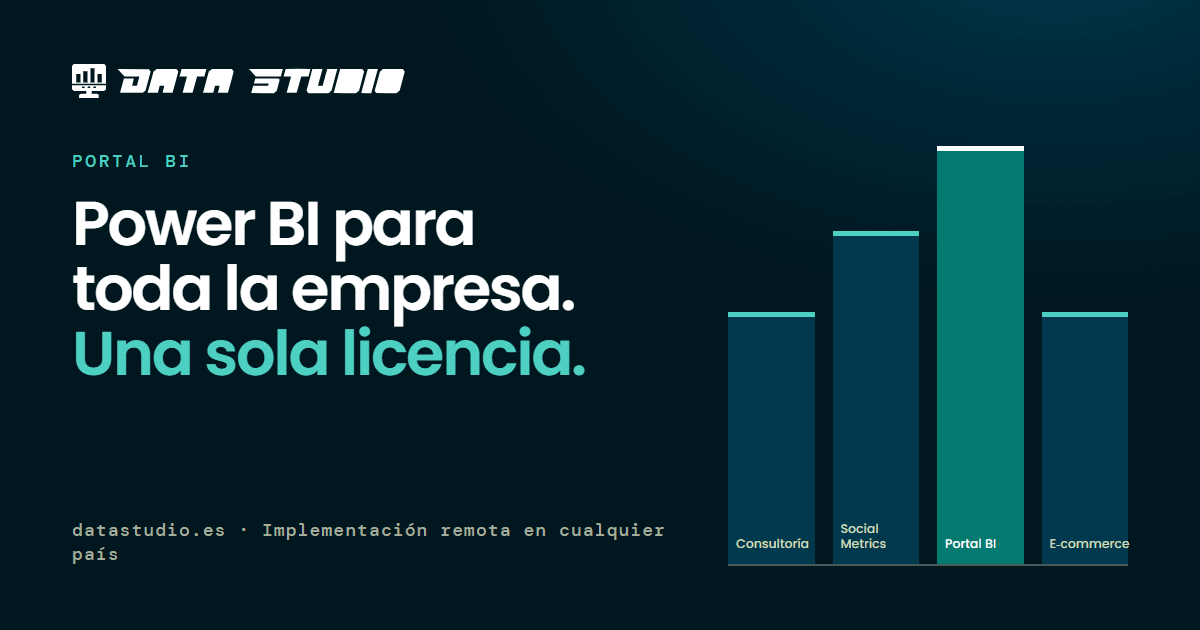
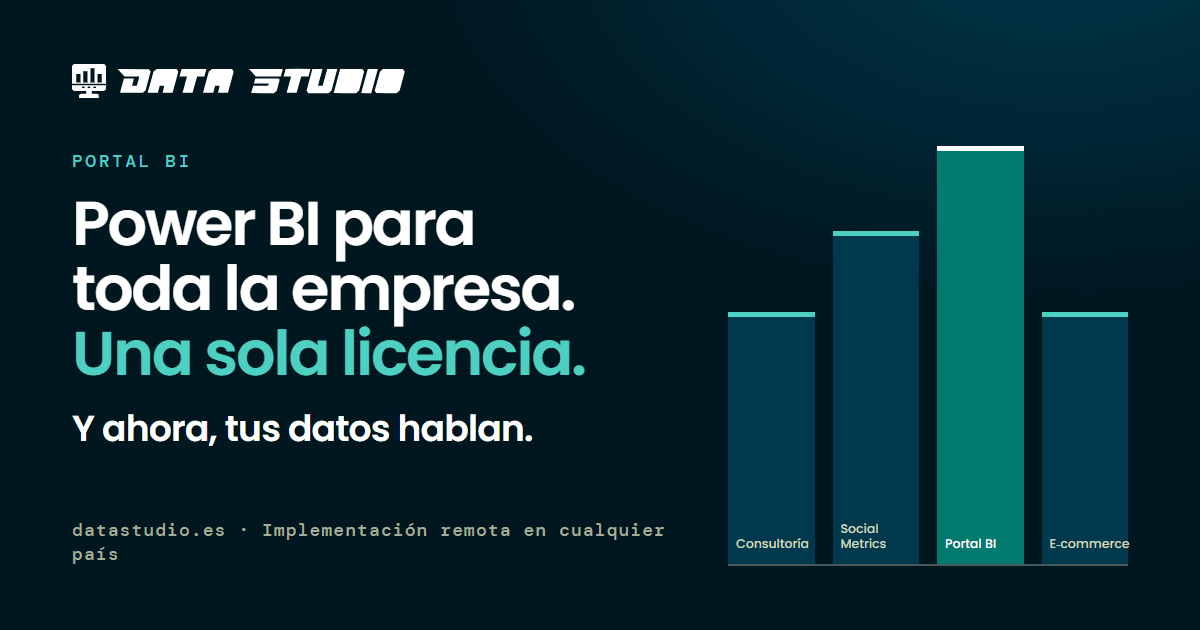
Portal BI: el lema «Y ahora, tus datos hablan.»
El plus del servicio, elegido con criterio de neuromarketing (ADR-018): «ahora»
es novedad, el presente dice que ya pasó, los datos que hablan se vuelven
alguien, «tus» los hace propios, y la «Y» lo pone después del ahorro, como
un «y además». Va con la acción («Conversa con tus datos») y la prueba
(«Pregúntale lo que el tablero no muestra»).

- Portada: el lema debajo del titular, que sigue siendo el gancho del ahorro.
  El titular baja a 56 px de tope y los botones de compra quedan más arriba
  que antes (829 px contra 875 en 1440 × 900). La sección del chat pasa a
  «Conversa con tus datos. Y mira de dónde sale cada número.».
- Recorridos: el paso del chat de tu equipo y el de la IA del administrador.
- Anuncio: la toma 6 lo presenta y el cierre lo firma.
- Imagen para compartir y descripción con el lema.
- npm run recursos estaba roto desde el 11/10 (buscaba el logo en
  Logo.astro); ahora lo lee de src/data/logo.ts.
- Banco del anuncio: el lema se ve en el cuadro quieto (saboteado). La
  portada del recorrido se eligió entre variantes medidas para que no salte
  al cargar la fuente (CLS). QA, anuncio y recorridos sin problemas.

Changed region(s): [[0.0617, 0.6635, 0.4625, 0.7238]]

diff --git a/src/components/anuncio/anuncio.css b/src/components/anuncio/anuncio.css
@@ -2534,6 +2534,15 @@
   max-width: calc(900 * var(--u));
 }
 
+/* El lema (ADR-018), pegado al titular. En blanco: la salvia de los subtítulos no se lee sobre
+   el verde (3,55:1, ver marca.md) */
+.an-s9-lema {
+  margin-top: calc(-20 * var(--u));
+  font-weight: 600;
+  color: #fff;
+  animation: an-entra 0.45s var(--sale) calc(var(--a) + 1.3s) both;
+}
+
 .an-fichas {
   display: flex;
   flex-wrap: wrap;

diff --git a/docs/contenido.md b/docs/contenido.md
@@ -35,7 +35,8 @@ Empresa de soluciones de datos con base en Santa Cruz de la Sierra, Bolivia, que
 | Solo lectura, cuentas autorizadas, sin redistribución, revocable | Política de Privacidad y Condiciones del Servicio |
 | Anuncio del Portal BI: "1.000 personas × US$ 14 = US$ 14.000 al mes" | Cuenta sobre el precio de lista de Power BI Pro (`PRECIO_LICENCIA_USD`) con 1.000 personas como ejemplo; tachado en rojo y dicho como "sin el portal pagarías" |
 | Anuncio: "El código es tuyo", "Excel: tú decides quién descarga", "Lo instalas tú o lo instalamos", "Chat con IA", "En el celular", "Con tu marca" | Lo que el producto hace hoy (dos caminos de compra, opción "Ocultar Exportar datos" por asignación, chat al costado, marca blanca, móvil) |
-| Anuncio, toma 6: «La IA, al lado de tu tablero», «Un clic y conversas con tus datos», «Pregúntale lo que el tablero no muestra»; los pasos «Leyendo la estructura del modelo», «Redactando la consulta», «Consultando Power BI» y las consultas «Consulta n de 3» | Lo que hace el chat hoy: se abre al costado del tablero y consulta el modelo, no lo que dibuja el reporte. Los rótulos son los del portal, en `views/modules/chat.ejs` (pasos y «Consulta n de total») |
+| El lema «Y ahora, tus datos hablan.», «Conversa con tus datos» y «Pregúntale lo que el tablero no muestra» (portada, recorridos, anuncio, imagen para compartir; ADR-018) | El chat con IA del portal: se abre al costado del tablero, se le pregunta en español y responde consultando el modelo de Power BI, con la consulta a la vista. Si el dato no está en el modelo, lo dice |
+| Anuncio, toma 6: «Y ahora, tus datos hablan.», «A un clic, al lado de tu tablero», «Pregúntale lo que el tablero no muestra»; los pasos «Leyendo la estructura del modelo», «Redactando la consulta», «Consultando Power BI» y las consultas «Consulta n de 3» | Lo que hace el chat hoy: se abre al costado del tablero y consulta el modelo, no lo que dibuja el reporte. Los rótulos son los del portal, en `views/modules/chat.ejs` (pasos y «Consulta n de total») |
 | Datos de la toma 6: crecimiento de siete sucursales contra 2025 (de +18,4 % a −7,4 %, promedio +7,9 %); Aeropuerto, ticket promedio US$ 94 → 118 (+26 %; es +25,5 %, y la ficha decía +25 hasta que se hizo la cuenta) y tickets 7.388 → 6.969 (−6 %) | **Ficticios** y cuadrados entre sí y con el reporte: 7.388 × 94 y 6.969 × 118 dan +18,4 %, el crecimiento de Aeropuerto en el gráfico, y 822.300, sus ventas en el reporte. Las siete suman los US$ 5.216.100 del reporte (Parque Industrial, 177.000, es la que el visual de barras deja afuera), su crecimiento ponderado es el +7,9 % del indicador, y el ticket da los 108. Rotulados "Datos de ejemplo" (ADR-013) |
 | Datos de las maquetas (tienda de cafetería, ranking de publicaciones, ventas de marzo, chat del portal, recorrido animado: usuaria «mariana.s», sucursales y ventas de septiembre) | **Ficticios**, rotulados "Datos de ejemplo" en cada maqueta (ADR-013) |
 | Recorrido del administrador: alta con usuario o correo, sin cuenta de Microsoft ni licencia; el constructor que recorre tabla, columna y valor y arma el filtro; el enlace que el panel revisa antes de guardar; las opciones del tablero (paneles, páginas que no ve, pantalla completa, imprimir, sin «Exportar datos»); el chat por tablero, al costado o en otra pestaña, con su aviso; la marca con vista previa y «menos de un minuto»; los registros de acceso | Lo que hace el panel hoy, leído de sus vistas: `credenciales.ejs`, `powerbi.ejs` (constructor de filtros), `licencia.ejs` + `_opciones-tablero.ejs`, `configuracion.ejs` («Se aplicarán en menos de 60 segundos») y `registros.ejs` |

diff --git a/docs/changelog.md b/docs/changelog.md
@@ -1,5 +1,29 @@
 # Bitácora de cambios
 
+## 14/10/2026 · El lema del Portal BI: «Y ahora, tus datos hablan.»
+
+- **Pedido del dueño**: que la portada, los recorridos, el anuncio y la demo tomen algo de «Haz que tus datos hablen», «Ahora tus datos hablan» o «Conversa con tus datos», elegido con criterio de neuromarketing, para que sea el plus del servicio.
+- **La frase elegida es «Y ahora, tus datos hablan.»** El porqué está en ADR-018. Forma un sistema de tres frases, una por función:
+  - el **lema** es «Y ahora, tus datos hablan.»;
+  - la **acción** es «Conversa con tus datos»;
+  - la **prueba** es «Pregúntale lo que el tablero no muestra».
+- **Portada de `/portal-bi/`**:
+  - El titular sigue siendo el gancho del ahorro («Nunca más una licencia por persona»). El lema va debajo, como segunda voz, y la bajada explica las dos promesas.
+  - El titular bajó de 64 a 56 px de tope. Con eso pasa de 5 a 4 renglones en escritorio, y los botones de compra terminan más arriba que antes aunque se sumó una línea: en 1440 × 900 y en 1280 × 800, de 875 a 829 px. En el teléfono siguen a la vista (822 px de 844).
+  - La sección del chat pasó de «Pregunta en español. Mira la consulta.» a «Conversa con tus datos. Y mira de dónde sale cada número.». El «en español» se mudó a la entrada.
+  - La descripción para buscadores y redes nombra el lema (155 caracteres). La imagen para compartir lo suma debajo del titular, con la misma jerarquía que la portada.
+- **Recorridos**:
+  - En el de tu equipo, el paso del chat se llama «Y ahora, tus datos hablan.», y la portada dice «Del ingreso a conversar con tus datos…».
+  - En el del administrador, el paso de la IA es «Tus datos hablan donde tú decides.».
+- **Anuncio**:
+  - La toma 6 presenta el lema como titular («Y ahora, tus datos hablan.» y «A un clic, al lado de tu tablero.»).
+  - El cierre lo firma debajo de «Power BI para toda tu empresa.». Va en blanco, porque la salvia no se lee sobre el verde.
+  - La Action vuelve a grabar los cuatro videos.
+- **Arreglo de paso**: `npm run recursos` estaba roto desde el 11/10. Buscaba los trazos del logo en `Logo.astro` y se habían mudado a `src/data/logo.ts`. Ahora los lee de ahí y, si no los encuentra, lo dice. Al regenerar, solo cambió `og/portal-bi.png`: las otras cuatro imágenes y los íconos salieron idénticos byte por byte.
+- **Banco**: el del anuncio comprueba que el lema se vea en el cuadro quieto del cierre. Saboteado atrasando su entrada: da rojo.
+  - El de los recorridos encontró un salto de diseño. La primera versión de la portada del recorrido daba CLS 0,0133 con red lenta en 1440 × 790 (ver aprendizajes). Se midieron tres frases nuevas, más la vieja como control, en los cinco tamaños, y se eligió una que no salta.
+  - QA, anuncio y recorridos sin problemas.
+
 ## 12/10/2026 · El anuncio: la IA al costado del tablero (55 s)
 
 - **Pedido del dueño**: el chat con IA se veía como otra pantalla, y la gracia del producto es que vive al lado del tablero. Es un botón al costado; un clic lo despliega y ahí se conversa con los datos del modelo. «Es la bomba», así que lleva diseño propio, aunque el anuncio se alargue un poco, y tiene que resolver dos preguntas difíciles.

diff --git a/docs/decisiones.md b/docs/decisiones.md
@@ -2,6 +2,28 @@
 
 Formato: contexto → decisión → consecuencias. Las decisiones nuevas van arriba.
 
+## ADR-018 · El lema del Portal BI: «Y ahora, tus datos hablan.» (14/10/2026)
+
+- **Contexto**: el dueño pidió que la portada, los recorridos y el anuncio tomaran algo de «Haz que tus datos hablen», «Ahora tus datos hablan» o «Conversa con tus datos», y que se eligiera con criterio de neuromarketing, para que sea el plus del servicio. El gancho de la página ya era el ahorro («Nunca más una licencia por persona»), y el chat con IA al costado del tablero es lo que el producto tiene de distinto.
+- **Decisión**: el lema es **«Y ahora, tus datos hablan.»**. Va con dos frases que cumplen otras funciones: la acción, **«Conversa con tus datos»**, y la prueba, **«Pregúntale lo que el tablero no muestra»**.
+- **Por qué esa y no las otras**:
+  - «Haz que tus datos hablen» le pasa el trabajo al lector: el cerebro registra el esfuerzo como un costo. Además es una frase muy gastada entre consultoras de BI, y no se distingue.
+  - «Conversa con tus datos» es clara, pero es la descripción de la categoría: es lo que dice cualquier herramienta de chat con datos. Sirve para explicar y para invitar, no para diferenciarse.
+  - «Ahora» es una señal de novedad, y lo nuevo se atiende primero. También supone un antes (los datos callados) sin tener que decirlo.
+  - El presente dice que ya pasó: es un hecho, no una promesa, y no le pide esfuerzo a nadie.
+  - Que los datos hablen los convierte en alguien. Una voz se recuerda mejor que una abstracción.
+  - «Tus» ata la frase a lo propio, y lo propio se recuerda mejor.
+  - Son cinco palabras con el ritmo de un octosílabo, el verso más natural del español: se dice fácil y se repite.
+  - La «Y» inicial la vuelve literalmente un plus: se lee después del ahorro, como «y además».
+- **Dónde va y cómo**:
+  - En la portada, debajo del titular, como segunda voz. El gancho sigue siendo el ahorro, que es lo que decide la compra.
+  - Para que entrara, el titular de esta página bajó de 64 a 56 px de tope. Medido: los botones de compra quedaron más arriba que antes (829 px contra 875 en 1440 × 900 y en 1280 × 800), y en el teléfono siguen a la vista.
+  - La sección del chat baja el lema a la acción y a la prueba: «Conversa con tus datos. Y mira de dónde sale cada número.».
+  - En el anuncio aparece dos veces, porque la repetición fija la frase: la toma 6 lo presenta y el cierre lo firma.
+  - En los recorridos, nombra el paso del chat.
+  - La imagen para compartir lo lleva debajo del titular, porque es lo que se ve cuando se pasa el enlace por WhatsApp.
+- **Consecuencias**: el lema es una afirmación sobre el producto. Se sostiene mientras el chat consulte el modelo y responda con sus datos (contenido.md). Fuera de `/portal-bi/` (inicio, menú) no se cambió nada.
+
 ## ADR-017 · El recorrido del administrador: otro guion sobre el mismo motor (12/10/2026)
 
 - **Contexto**: después del recorrido de tu equipo (ADR-015) el dueño pidió «la parte de Administrador», reusando formatos e ideas.

diff --git a/docs/aprendizajes.md b/docs/aprendizajes.md
@@ -2,6 +2,20 @@
 
 Cada entrada: **síntoma → causa → solución → cómo evitarlo**.
 
+## El lema del Portal BI (14/10/2026)
+
+### Cambiar el texto que se ve al cargar puede hacer saltar la página
+- **Síntoma**: el banco de los recorridos dio CLS 0,0133 (el tope es 0,01) en 1440 × 790 con red lenta, en `/portal-bi/como-funciona/`. Con la frase vieja, medida en la misma corrida, daba 0,0004. Solo cambió una frase de la portada del recorrido.
+- **Causa**: mientras llega Poppins, el texto se dibuja con la fuente de respaldo, que es más angosta. La frase nueva cortaba sus renglones en otros lugares con cada fuente, y al llegar Poppins una palabra bajó dos renglones (53 px). La vieja, por casualidad, cortaba en el mismo lugar con las dos. Se vio midiendo el salto con sus fuentes (`LayoutShift.sources`). Medir el alto de la caja con una y otra fuente no lo mostraba, porque la caja no cambiaba.
+- **Solución**: se midieron tres frases nuevas, más la vieja como control, en los cinco tamaños del banco, compilando cada una. Dos de las nuevas no saltaban, igual que la vieja, y se eligió la que dice «conversar con tus datos».
+- **Evitarlo**: todo texto que se ve al cargar un recorrido (la portada) pasa por `npm run recorrido`, aunque el cambio sea de redacción.
+
+### `npm run recursos` llevaba tres días roto y nadie lo había corrido
+- **Síntoma**: al regenerar la imagen para compartir, el script se cayó al arrancar (`Cannot read properties of null`).
+- **Causa**: leía los trazos del logo de `Logo.astro` con una expresión regular. El 11/10 los trazos se mudaron a `src/data/logo.ts`, y la expresión dejó de encontrar nada. Como el script solo se corre cuando cambian las imágenes, nadie se enteró.
+- **Solución**: los lee de `logo.ts`, y si no los encuentra lo dice con nombre propio. Al correrlo, las cuatro imágenes y los íconos que no se tocaron salieron idénticos byte por byte. Eso prueba que leer de un lado o del otro da el mismo logo.
+- **Evitarlo**: cuando algo se muda de archivo, buscar quién lo leía como texto (`grep` del nombre viejo en `scripts/`), no solo quién lo importa.
+
 ## La IA al costado del tablero, en el anuncio (12/10/2026)
 
 ### Dos animaciones de la misma propiedad en cadena: la de después no puede llevar `both`

diff --git a/docs/marca.md b/docs/marca.md
@@ -44,7 +44,7 @@ Hex exactos del manual (no se modifican). Los derivados se calcularon en OKLCH m
 
 - Lema "INNOVACIÓN, ANALÍTICA & MARKETING": Poppins en mayúsculas con tracking amplio, como en el logo.
 - Titulares siempre rectos (sin itálica). El énfasis va con color (`--acento`), no con cursiva.
-- Escala fluida en `tokens.css` (`--text-xs` … `--text-display`). El titular del hero tiene un tope de 72 px para caber en dos líneas en escritorio.
+- Escala fluida en `tokens.css` (`--text-xs` … `--text-display`). El titular del hero tiene un tope de 72 px para caber en dos líneas en escritorio. En `/portal-bi/` el tope es de 56 px, porque debajo va el lema (ADR-018).
 - Las fuentes son woff2 con subconjunto latino (incluye á é í ó ú ñ ü ¿ ¡ – —). **No incluyen flechas ni ✓**: se usan íconos SVG.
 
 ## Logo
@@ -70,3 +70,4 @@ Hex exactos del manual (no se modifican). Los derivados se calcularon en OKLCH m
 - Español con **tuteo** ("Escríbenos", "Pide una demo"). Registro cercano y concreto.
 - Nombrar lo que la persona controla y reconoce; nada de jerga vacía ("soluciones innovadoras de vanguardia").
 - Sin cifras, clientes ni testimonios inventados (ver [contenido.md](contenido.md)).
+- **El lema del Portal BI** es «Y ahora, tus datos hablan.», y suelto, sin lo anterior, es «Ahora tus datos hablan.». Lo acompañan dos frases, cada una con su función: la acción, «Conversa con tus datos», y la prueba, «Pregúntale lo que el tablero no muestra». Cada pieza nueva del Portal BI las usa así, sin variantes («Haz que tus datos hablen» le pasa el trabajo al lector). Ver ADR-018.

diff --git a/docs/arquitectura.md b/docs/arquitectura.md
@@ -57,7 +57,8 @@
 │   │   ├── tienda/              Catalogo (tienda de ejemplo, variantes completa y compacta)
 │   │   └── consultoria/         Flujo (recorrido de los datos) y Consolidado (héroe: planillas → reporte)
 │   ├── data/sitio.ts            ★ Fuente única de verdad: contacto, WhatsApp, navegación, soluciones, precio de licencia
-│   ├── data/logo.ts             Trazos del logo (ícono, barras, wordmark): los usan Logo.astro y el anuncio
+│   ├── data/logo.ts             Trazos del logo (ícono, barras, wordmark): los usan Logo.astro, el anuncio
+│   │                            y scripts/generar-recursos.mjs (favicons, íconos e imágenes para compartir)
 │   ├── data/admin.ts            El menú del panel de administración (orden, nombres e íconos): MaquetaAdmin y el recorrido
 │   ├── layouts/Base.astro       <head> (SEO, OG, JSON-LD, fuentes), encabezado, pie (`inmersiva`: sin encabezado ni pie)
 │   ├── pages/                   index, portal-bi, portal-bi/como-funciona (y /administrador), social-metrics-bi, tienda-ecommerce, consultoria, 404
